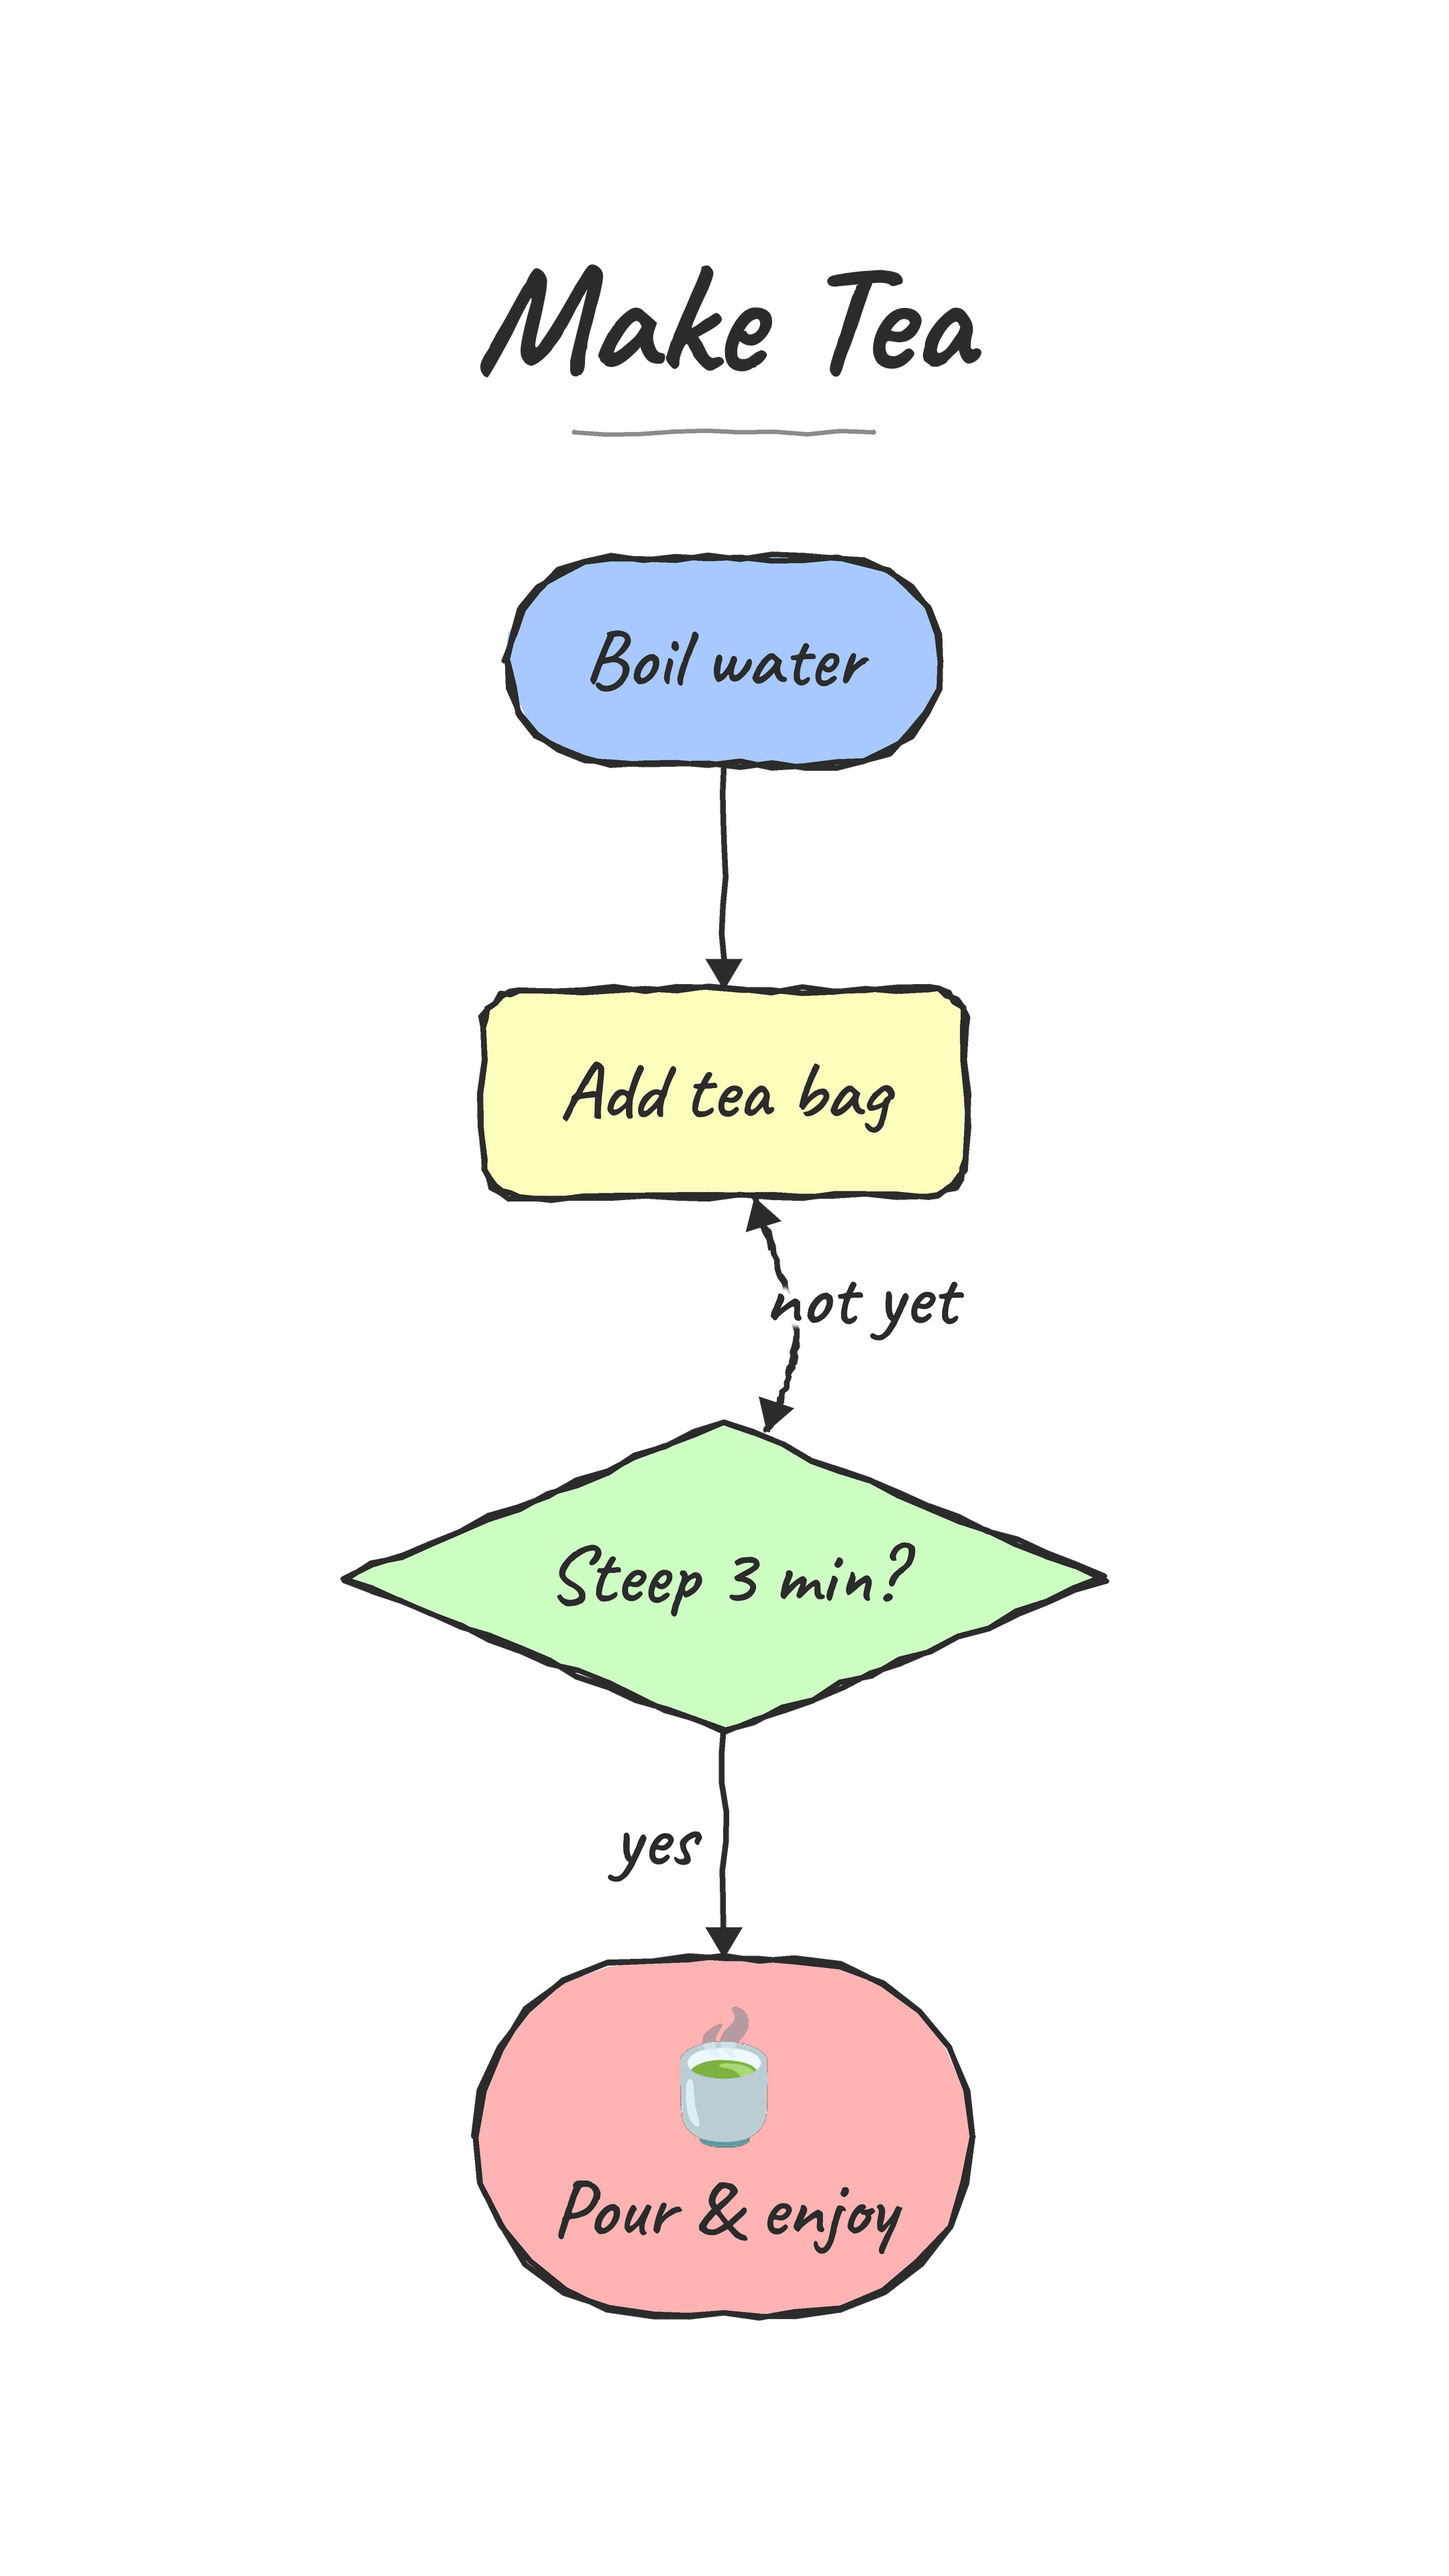
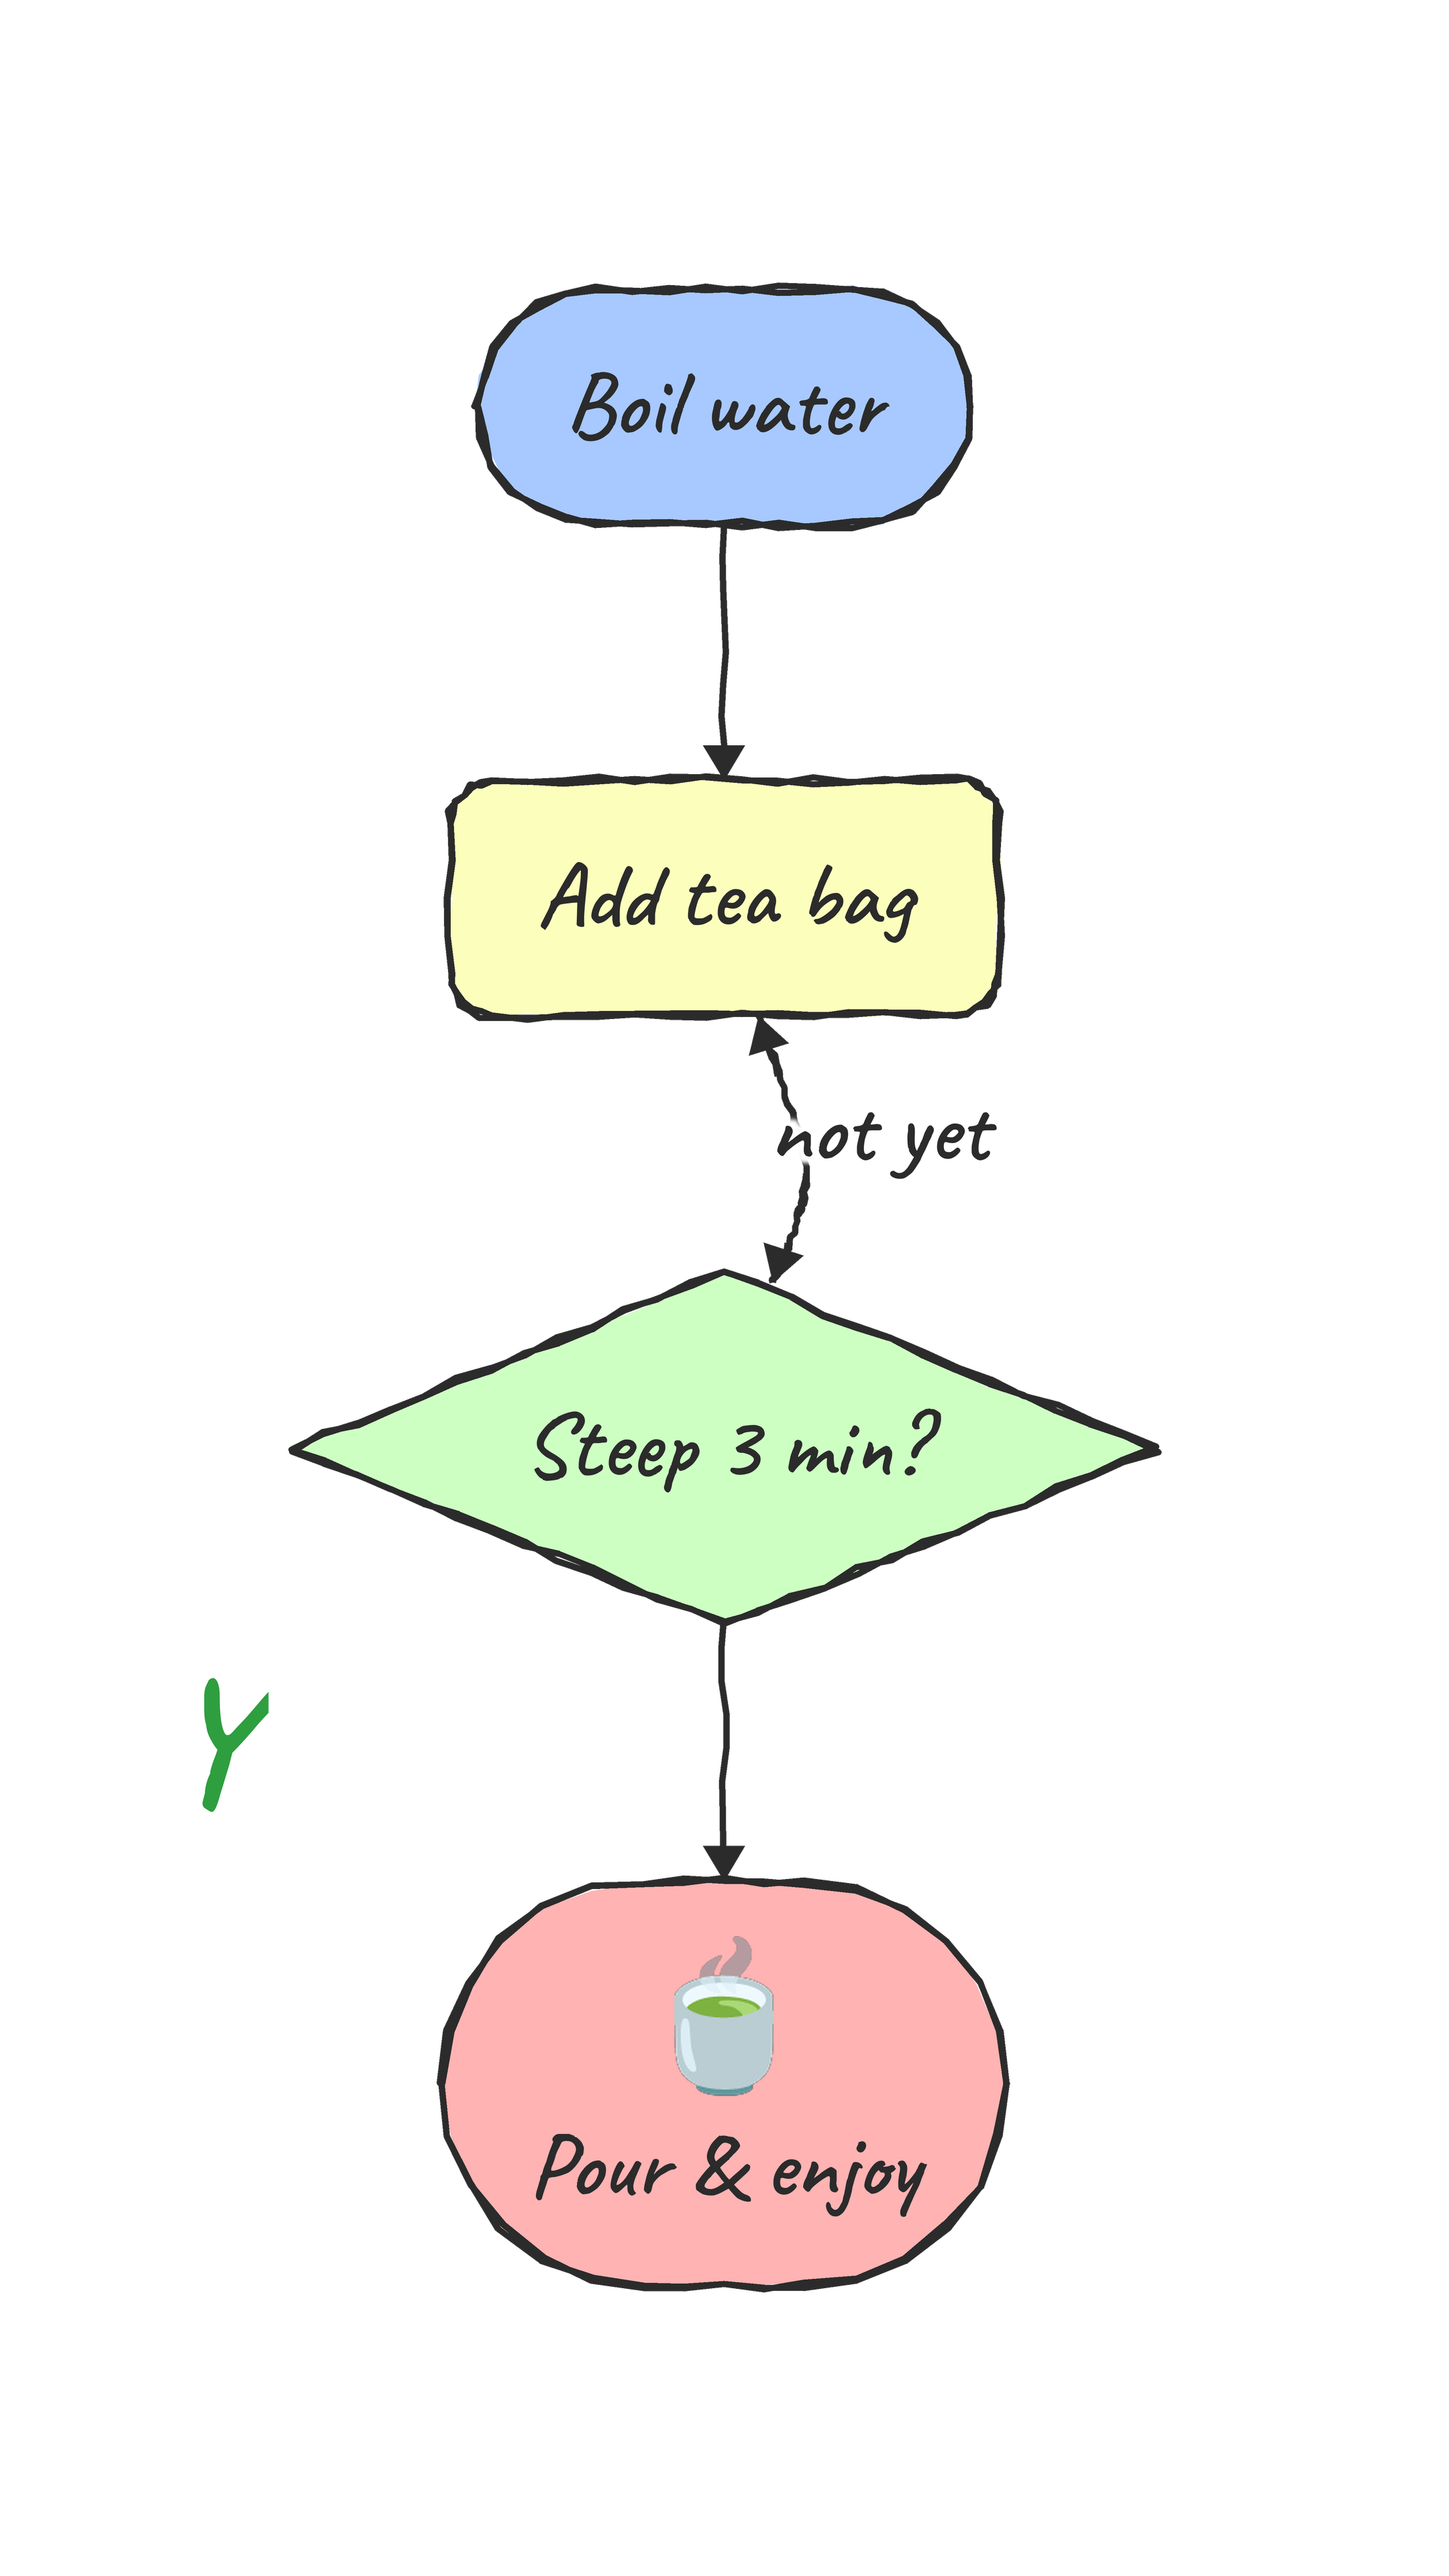
Drop title, separate group boxes, colored group titles, N/Y labels
- Stop drawing the diagram title in PNG output.
- Group-aware layout: nodes of a group are kept contiguous within each
  layer and an extra gap is inserted across group boundaries, so cluster
  highlight boxes stay apart instead of overlapping.
- Group titles render in (a darkened shade of) the group's highlight
  colour, positioned just above the box.
- Decision edges labelled yes/no render as a big green "Y" / red "N".

Claude-Session: https://claude.ai/code/session_01PkQ793Mrcet6GuHUUkKXnM

Changed region(s): [[0.2171, 0.0938, 0.8065, 0.9062], [0.1241, 0.6562, 0.1861, 0.7188]]

diff --git a/flowblow/layout.py b/flowblow/layout.py
@@ -26,6 +26,7 @@ from .models import Diagram, Direction, Shape
 # ---------------------------------------------------------------------------
 LAYER_GAP = 95          # spacing between successive layers (along main axis)
 SIBLING_GAP = 50        # min spacing between nodes inside the same layer
+GROUP_GAP = 80          # extra spacing between nodes of different groups
 COMPONENT_GAP = 80      # spacing between disconnected components
 DUMMY_SIZE = 2          # cross-extent of a virtual routing node
 MARGIN = 24             # outer canvas margin (kept small; PNG fit adds framing)
@@ -189,6 +190,7 @@ class _Engine:
         self.measure = measure
         self.nodes: Dict[str, LNode] = {}
         self.edges: List[LEdge] = []
+        self.group_of: Dict[str, Optional[str]] = {}
         self.adj: Dict[str, List[str]] = {}
         self.radj: Dict[str, List[str]] = {}
         self.layers: List[List[str]] = []
@@ -205,6 +207,7 @@ class _Engine:
             else:
                 w, h, lines = estimate_size(n.label, n.shape, fs, bool(n.icon))
             self.nodes[n.id] = LNode(id=n.id, w=w, h=h, lines=lines)
+            self.group_of[n.id] = n.group
             self.adj.setdefault(n.id, [])
             self.radj.setdefault(n.id, [])
         for e in self.d.edges:
@@ -357,6 +360,38 @@ class _Engine:
         for it in range(6):
             reorder(up if it % 2 == 0 else down)
 
+        # Keep each group's nodes contiguous within every layer so its highlight
+        # box forms its own band and does not overlap other groups' boxes.
+        self._group_contiguous_order()
+
+    def _group_contiguous_order(self) -> None:
+        if not any(self.group_of.get(n) for n in self.nodes):
+            return
+        # A representative cross position per group = mean of normalised orders.
+        sums: Dict[str, float] = {}
+        counts: Dict[str, int] = {}
+        for layer in self.layers:
+            n = max(1, len(layer) - 1)
+            for i, nid in enumerate(layer):
+                g = self.group_of.get(nid)
+                if g:
+                    sums[g] = sums.get(g, 0.0) + i / n
+                    counts[g] = counts.get(g, 0) + 1
+        gmean = {g: sums[g] / counts[g] for g in sums}
+
+        for layer in self.layers:
+            n = max(1, len(layer) - 1)
+
+            def key(item):
+                i, nid = item
+                g = self.group_of.get(nid)
+                primary = gmean[g] if g else i / n
+                return (primary, i)
+
+            layer[:] = [nid for _, nid in sorted(enumerate(layer), key=key)]
+            for i, nid in enumerate(layer):
+                self.nodes[nid].order = i
+
     # -- 5. cross-axis coordinates -----------------------------------------
     def assign_cross(self) -> None:
         def cross_size(n: LNode) -> float:
@@ -364,15 +399,22 @@ class _Engine:
                 return DUMMY_SIZE
             return n.w if not self.horizontal else n.h
 
+        def gap_between(a_nid: str, b_nid: str) -> float:
+            # Larger gap across a group boundary so highlight boxes stay apart.
+            ga, gb = self.group_of.get(a_nid), self.group_of.get(b_nid)
+            return SIBLING_GAP + (GROUP_GAP if ga != gb else 0.0)
+
         # Initial packed positions per layer.
         for layer in self.layers:
             x = 0.0
+            prev = None
             for nid in layer:
                 n = self.nodes[nid]
                 half = cross_size(n) / 2
-                x += half
+                x += half + (gap_between(prev, nid) if prev else 0.0)
                 n.cross = x
-                x += half + SIBLING_GAP
+                x += half
+                prev = nid
 
         up: Dict[str, List[str]] = {nid: [] for nid in self.nodes}
         down: Dict[str, List[str]] = {nid: [] for nid in self.nodes}
@@ -385,12 +427,12 @@ class _Engine:
             # left-to-right then right-to-left to enforce min separation.
             for i in range(1, len(layer)):
                 a, b = self.nodes[layer[i - 1]], self.nodes[layer[i]]
-                min_d = cross_size(a) / 2 + cross_size(b) / 2 + SIBLING_GAP
+                min_d = cross_size(a) / 2 + cross_size(b) / 2 + gap_between(layer[i - 1], layer[i])
                 if b.cross - a.cross < min_d:
                     b.cross = a.cross + min_d
             for i in range(len(layer) - 2, -1, -1):
                 a, b = self.nodes[layer[i]], self.nodes[layer[i + 1]]
-                min_d = cross_size(a) / 2 + cross_size(b) / 2 + SIBLING_GAP
+                min_d = cross_size(a) / 2 + cross_size(b) / 2 + gap_between(layer[i], layer[i + 1])
                 if b.cross - a.cross < min_d:
                     a.cross = b.cross - min_d
 

diff --git a/flowblow/raster.py b/flowblow/raster.py
@@ -36,6 +36,12 @@ def _hash(s: str) -> int:
     return h
 
 
+def _darken(col: str, factor: float) -> str:
+    """Return ``col`` scaled toward black by ``factor`` (0..1), as #rrggbb."""
+    r, g, b, _ = hex_rgba(col)
+    return "#%02x%02x%02x" % (int(r * factor), int(g * factor), int(b * factor))
+
+
 def hex_rgba(col: str, alpha: int = 255) -> Tuple[int, int, int, int]:
     col = (col or "#cccccc").strip()
     if not col.startswith("#"):
@@ -376,16 +382,18 @@ def _draw_scene(diagram: Diagram, layout, blocks, unit: float,
                 dr.d.line(piece, fill=hex_rgba(diagram.accent, 120),
                           width=max(1, int(round(dr.stroke * 0.8))), joint="curve")
         if meta and meta.label:
-            gb = layout_block(meta.label, size=diagram.font_size * 0.92, weight=700)
-            gb.size = diagram.font_size * 0.92
-            lx = x0 + gb.w * unit / 2 + 12 * unit
-            ly = y0 + gb.h * unit / 2 + 8 * unit
-            dr.label_with_halo(gb, lx, ly, 700, diagram.accent)
+            gb = layout_block(meta.label, size=diagram.font_size * 1.0, weight=700)
+            gb.size = diagram.font_size * 1.0
+            # title in the group's highlight colour, sitting just ABOVE the box
+            tint = _darken(col, 0.72)
+            lx = x0 + gb.w * unit / 2 + 6 * unit
+            ly = y0 - gb.h * unit / 2 - 5 * unit
+            dr.label_with_halo(gb, lx, ly, 700, tint)
             obstacles.append((lx - gb.w * unit / 2, ly - gb.h * unit / 2,
                               lx + gb.w * unit / 2, ly + gb.h * unit / 2))
 
     # --- edges --- (labels are deferred so nodes never hide them)
-    deferred_labels: List[Tuple[Block, Point, Point]] = []
+    deferred_labels: list = []  # (block, mid, perp, color, weight)
     round_shapes = (Shape.ellipse, Shape.circle, Shape.diamond)
     valid = [e for e in diagram.edges
              if e.source in layout.nodes and e.target in layout.nodes]
@@ -470,10 +478,18 @@ def _draw_scene(diagram: Diagram, layout, blocks, unit: float,
             perp = (-dy / L, dx / L)
             if perp[1] > 0:                # prefer the "upper" side
                 perp = (-perp[0], -perp[1])
-            lb = layout_block(spec.label, size=diagram.font_size, weight=600,
+            # yes/no decision labels -> a big green "Y" / red "N"
+            low = spec.label.strip().lower()
+            if low in ("yes", "y"):
+                text, lcolor, lsize, weight = "Y", "#2e9e3f", diagram.font_size * 1.9, 700
+            elif low in ("no", "n"):
+                text, lcolor, lsize, weight = "N", "#d83a3a", diagram.font_size * 1.9, 700
+            else:
+                text, lcolor, lsize, weight = spec.label, diagram.accent, diagram.font_size, 600
+            lb = layout_block(text, size=lsize, weight=weight,
                               max_width=diagram.font_size * 14)
-            lb.size = diagram.font_size
-            deferred_labels.append((lb, mid, perp))
+            lb.size = lsize
+            deferred_labels.append((lb, mid, perp, lcolor, weight))
 
     # --- nodes ---
     for nid, pn in layout.nodes.items():
@@ -517,7 +533,7 @@ def _draw_scene(diagram: Diagram, layout, blocks, unit: float,
             best = min(best, dist)
         return best
 
-    for lb, mid, perp in deferred_labels:
+    for lb, mid, perp, lcolor, lweight in deferred_labels:
         hw, hh = lb.w * unit / 2, lb.h * unit / 2
         # Keep the label at the MIDDLE of the line, beside it. On each side,
         # step out from the line just far enough to clear any node; then prefer
@@ -549,7 +565,7 @@ def _draw_scene(diagram: Diagram, layout, blocks, unit: float,
         W, H = dr.img.size
         bx = min(max(best[0], hw + 4), W - hw - 4)
         by = min(max(best[1], hh + 4), H - hh - 4)
-        dr.label_with_halo(lb, bx, by, 600, diagram.accent)
+        dr.label_with_halo(lb, bx, by, lweight, lcolor)
 
 
 def _draw_cylinder(dr: _Drawer, cx, cy, w, h, fill, seed):
@@ -602,10 +618,7 @@ def render_png_bytes(diagram: Diagram, width: int = 1080, height: int = 1920,
         b = blocks[node.id]
         return _inflate(b.w, b.h, node.shape, font_size)
 
-    title_block = None
-    if diagram.title:
-        title_block = layout_block(diagram.title, size=fs * 1.9, weight=700)
-        title_block.size = fs * 1.9
+    title_block = None  # titles are not drawn
 
     fw, fh = int(width * scale), int(height * scale)
     pad = pad_frac * min(fw, fh)
